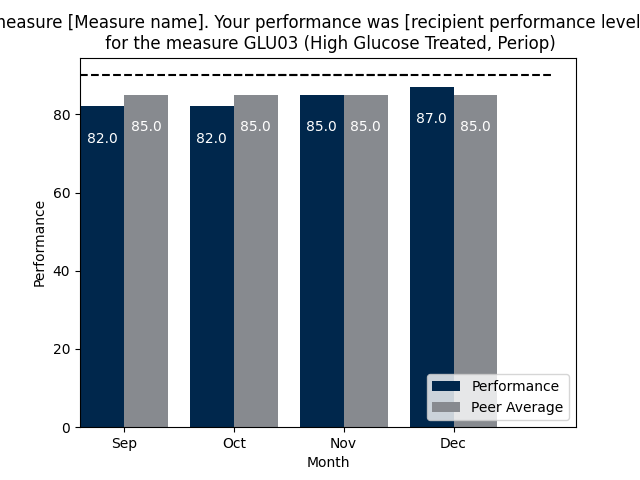
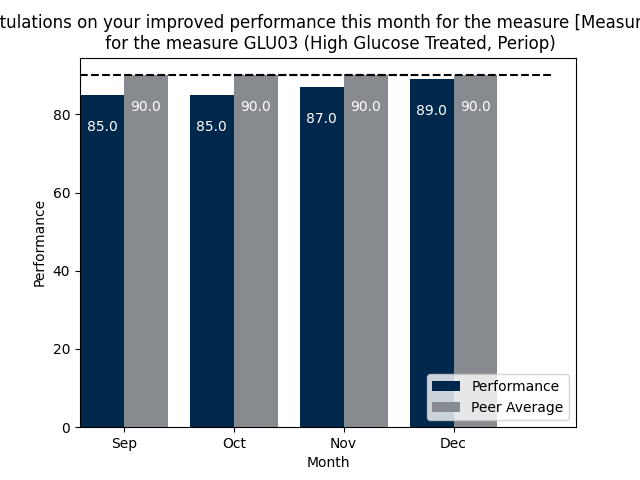
fixed the acceptable by array and randomized display

Changed region(s): [[0.0, 0.0312, 1.0, 0.0625], [0.4688, 0.1562, 0.7812, 0.2812], [0.125, 0.1562, 0.4375, 0.3125]]

diff --git a/candidatesmasher/candidatesmasher.py b/candidatesmasher/candidatesmasher.py
@@ -73,7 +73,7 @@ class CandidateSmasher:
         self.ab=[]
         self.text_dicts={}
         self.name_dicts={}
-        self.display_dicts={}
+        # self.display_dicts={}
         self.template_type_dicts={}
         self.candidate_id_dicts={}
         self.goal_dicts={}
@@ -335,14 +335,14 @@ class CandidateSmasher:
         # display_dicts=a25_dicts
         text_dicts=a26_dicts
         name_dicts=a27_dicts
-        display_dicts=a278_dicts
+        # display_dicts=a278_dicts
         template_type_dicts=templatetype_dicts
         # for k,v in text_dicts.items():
         #     print(k,v)
         self.df_text = pd.DataFrame.from_dict(text_dicts,orient='index')
         self.df_text = self.df_text.rename({0:"text"}, axis=1)
-        self.df_display_dicts=pd.DataFrame.from_dict(display_dicts,orient='index')
-        self.df_display_dicts = self.df_display_dicts.rename({0:"display"}, axis=1)
+        # self.df_display_dicts=pd.DataFrame.from_dict(display_dicts,orient='index')
+        # self.df_display_dicts = self.df_display_dicts.rename({0:"display"}, axis=1)
         # self.df_display_dicts = self.df_display_dicts.rename({1:"display2"}, axis=1)
         self.df_name_dicts=pd.DataFrame.from_dict(name_dicts,orient='index')
         self.df_name_dicts = self.df_name_dicts.rename({0:"name"}, axis=1)
@@ -356,7 +356,7 @@ class CandidateSmasher:
             self.df_template_type_dicts  = self.df_template_type_dicts .rename({4:"template_type_dicts4"}, axis=1)
             self.df_template_type_dicts  = self.df_template_type_dicts .rename({5:"template_type_dicts5"}, axis=1)
             self.df_template_type_dicts  = self.df_template_type_dicts .rename({6:"template_type_dicts6"}, axis=1)
-        self.df=pd.concat([self.df_text,self.df_name_dicts,self.df_display_dicts,self.df_template_type_dicts], axis=1)
+        self.df=pd.concat([self.df_text,self.df_name_dicts,self.df_template_type_dicts], axis=1)
        
         # self.df = self.df.rename({1:"template_type_dicts1"}, axis=1)
         # self.df = self.df.rename({2:"template_type_dicts2"}, axis=1)
@@ -374,7 +374,7 @@ class CandidateSmasher:
         #     self.df["template_type_dicts3"]=0
         # if "template_type_dicts4" in self.df.columns:
         #     self.df["template_type_dicts4"]=0
-        #self.df.to_csv("template.csv")
+        self.df.to_csv("template.csv")
     
         return self.df
    
@@ -405,7 +405,7 @@ class CandidateSmasher:
                         self.a.add((oq,self.cp,self.co))
                         a25=Literal(row["text"])
                         a27=Literal(row["name"])
-                        a288= Literal(row["display"])
+                        # a288= Literal(row["display"])
                         if "template_type_dicts" in self.df.columns:
                             if(row["template_type_dicts"] != 0):
                                 a28=URIRef(row["template_type_dicts"])
@@ -415,7 +415,7 @@ class CandidateSmasher:
                 
                         self.a.add((oq,self.cp2,a25))
                         self.a.add((oq,self.cp1,a27))
-                        self.a.add((oq,self.cp3,a288))
+                        # self.a.add((oq,self.cp3,a288))
                         # self.a.add((oq,self.cp3,a26))
                         # self.a.add((oq,self.cp3,a261))
                         self.a.add((oq,RDF.type,self.cp28))

diff --git a/pictoralist/pictoralist.py b/pictoralist/pictoralist.py
@@ -35,9 +35,9 @@ class Pictoralist():
         self.performance_data['month']= pd.to_datetime(self.performance_data['month'], errors='coerce')
         self.display_format=str(self.display_format)
         self.measure_name=str(self.measure_name)
-        if self.display_format == "Text-only, bar chart, line chart":
-            self.display_format = "bar chart"
-            # print(self.display_format)
+        # if self.display_format == "Text-only, bar chart, line chart":
+        #     self.display_format = "bar chart"
+        print(self.display_format)
         if self.display_format == "bar chart":
             # print(self.performance_data)
             self.graph_df = self.performance_data[self.performance_data['measure'] ==  self.measure_name]
@@ -197,6 +197,7 @@ class Pictoralist():
         if self.comparator == "Lost Peer Average":
             message["comparison_value"]=performance_month['peer_average_comparator']
         message["recipient_performance_level"]=recipient_performance_level*100
+        # if self.display_format == "bar chart" and self.display_format == "line graph":
         message["image"]=self.selected_message_dict["image"]
         # message["image"]=self.selected_message_dict["image"]
         #encodedNumpyData = json.dumps(array, cls=NumpyEncoder)

diff --git a/esteemer/esteemer.py b/esteemer/esteemer.py
@@ -72,21 +72,25 @@ class Esteemer():
             pqd=URIRef("http://example.com/slowmo#PerformanceGapSize")
             pqw=URIRef("http://example.com/slowmo#PerformanceTrendSlope")
             p232= URIRef("psdo:PerformanceSummaryDisplay")
-
+            Display=["Text-only", "bar chart", "line graph"]
             sw=0
+            o2wea=[]
             
             
             for s21,p21,o21 in self.spek_tp.triples((s,p20,None)):
                 s_m["Template ID"] = o21
             for s2,p2,o2 in self.spek_tp.triples((s,p1,None)):
                 s_m["text"] = o2
-            for s212,p212,o212 in self.spek_tp.triples((s,p232,None)):
+            # for s212,p212,o212 in self.spek_tp.triples((s,p232,None)):
                
-                s_m["Display"]=o212
+            s_m["Display"]=random.choice(Display)
             for s9,p9,o9 in self.spek_tp.triples((s,p8,None)):
                 s_m["Comparator Type"] = o9
             for s2we,p2we,o2we in self.spek_tp.triples((s,pwed,None)):
-                s_m["Acceptable By"] = o2we
+                o2wea.append(o2we)
+            # print(*o2wea)
+            s_m["Acceptable By"] = o2wea
+
             
             
             
